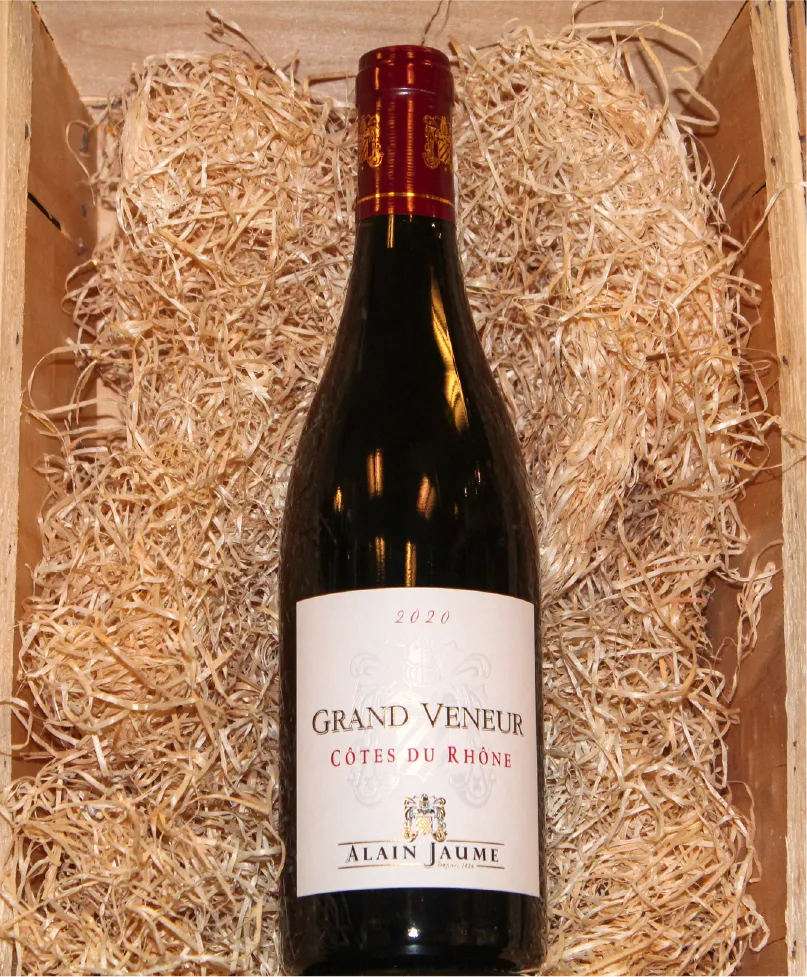
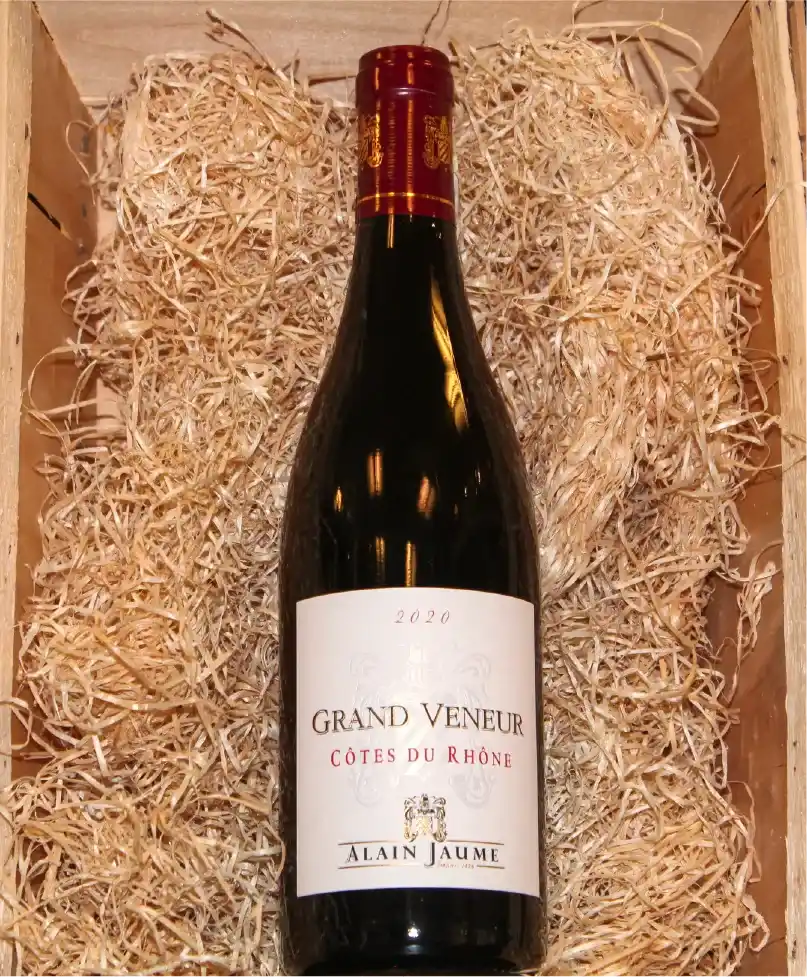
Note - ændre navn på 111 fil (rødvin kategori bg url)
Skal compress billedet og ændre navnet, samt gøre noget for mere læseligt

Changed region(s): [[0.8364, 0.9519, 0.8674, 1.0], [0.5266, 0.8291, 0.5576, 0.8598]]

diff --git a/index.html b/index.html
@@ -17,12 +17,19 @@
     <meta property="og:locale" content="da_dk">
     <meta name="theme-color" content="TBA">
     <title>Document</title>
+<<<<<<< Updated upstream
     <script src="https://kit.fontawesome.com/60e57c91d1.js" crossorigin="anonymous"></script>
     <script src="https://unpkg.com/phosphor-icons"></script>
     <script src="https://maps.googleapis.com/maps/api/js?key=AIzaSyDNS5JsqfFHX_6UR1MR9JJGz6hN20fMhCk&callback=initMap" async defer></script>
     <link rel="preconnect" href="https://fonts.googleapis.com">
+=======
+    <script src="https://kit.fontawesome.com/60e57c91d1.js" crossorigin="anonymous" async defer ></script>
+
+    <script src="https://maps.googleapis.com/maps/api/js?key=AIzaSyDNS5JsqfFHX_6UR1MR9JJGz6hN20fMhCk&callback=initMap" async defer></script>
+
+ 
+>>>>>>> Stashed changes
     <link rel="preconnect" href="https://fonts.gstatic.com" crossorigin>
-    <link href="https://fonts.googleapis.com/css2?family=Oleo+Script:wght@400;700&display=swap" rel="stylesheet">
     <link rel="stylesheet" href="stylesheets/style.css">
 
 </head>
@@ -35,8 +42,8 @@
         <nav class="navbar">
             <!--LOGO-->
             <a href="index.html">
-                <img class="logo-1 logo" src="./img/logo-01.svg" alt="logo">
-                <img class="logo-2 logo" src="./img/logo-02.svg" alt="logo">
+                <img rel="preload" as="image" class="logo-1 logo" src="./img/logo-01.svg" alt="logo">
+                <img rel="preload" as="image" class="logo-2 logo" src="./img/logo-02.svg" alt="logo">
             </a>
             
             <!-- NAV MENU -->
@@ -116,17 +123,17 @@
 
                     <!-- Full-width images with number and caption text -->
                     <div class="mySlides">
-                        <img src="./img/rødvin_finca.webp" alt="Finca rødvin">
+                        <img rel="preload" as="image" src="./img/rødvin_finca.webp" alt="Finca rødvin">
                        
                     </div>
 
                     <div class="mySlides">
-                        <img src="./img/rødvin_grandVeneur.webp" alt="Grand Veneur rødvin">
+                        <img rel="preload" as="image" src="./img/rødvin_grandVeneur.webp" alt="Grand Veneur rødvin">
                      
                     </div>
 
                     <div class="mySlides">
-                        <img src="./img/rødvin_lirac.webp" alt="Lirac Rødvin">
+                        <img rel="preload" as="image" src="./img/rødvin_lirac.webp" alt="Lirac Rødvin">
                     </div>
 
                     <!-- Next and previous buttons -->
@@ -134,9 +141,9 @@
                     <a class="next arrow-black" onclick="plusSlides(1)"><i class="ph-caret-right"></i></a>
                 </div>
                 <div class="desktop-img-container">
-                    <img src="./img/rødvin_finca.webp" alt="Finca Rødvin">
-                    <img src="./img/rødvin_grandVeneur.webp" alt="Grand Veneur Rødvin">
-                    <img src="./img/rødvin_lirac.webp" alt="Lirac Rødvin">
+                    <img rel="preload" as="image" src="./img/rødvin_finca.webp" alt="Finca Rødvin">
+                    <img rel="preload" as="image" src="./img/rødvin_grandVeneur.webp" alt="Grand Veneur Rødvin">
+                    <img rel="preload" as="image" src="./img/rødvin_lirac.webp" alt="Lirac Rødvin">
                 </div>
                 <!-- The dots/circles -->
                 <div>
@@ -158,17 +165,17 @@
 
                     <!-- Full-width images with number and caption text -->
                     <div class="mySlides2">
-                        <img src="./img/rom_bumbu.webp" alt="Bumbu Rom">
+                        <img rel="preload" as="image" src="./img/rom_bumbu.webp" alt="Bumbu Rom">
                        
                     </div>
 
                     <div class="mySlides2">
-                        <img src="./img/gin_sloe.webp" alt="Sloe Gin">
+                        <img rel="preload" as="image" src="./img/gin_sloe.webp" alt="Sloe Gin">
                         
                     </div>
 
                     <div class="mySlides2">
-                        <img src="./img/gin_oldStills.webp" alt="Old Stills">
+                        <img rel="preload" as="image" src="./img/gin_oldStills.webp" alt="Old Stills">
                        
                     </div>
 
@@ -177,9 +184,9 @@
                     <a class="next" onclick="plusSlides2(1)"><i class="ph-caret-right"></i></a>
                 </div>
                 <div class="desktop-img-container">
-                    <img src="./img/rom_bumbu.webp" alt="Bumbu Rom">
-                    <img src="./img/gin_sloe.webp" alt="Sloe Gin">
-                    <img src="./img/gin_oldStills.webp" alt="Old Stills Gin">
+                    <img rel="preload" as="image"  src="./img/rom_bumbu.webp" alt="Bumbu Rom">
+                    <img rel="preload" as="image"  src="./img/gin_sloe.webp" alt="Sloe Gin">
+                    <img rel="preload" as="image"  src="./img/gin_oldStills.webp" alt="Old Stills Gin">
                 </div>
 
                 <!-- The dots/circles -->
@@ -203,15 +210,15 @@
 
                     <!-- Full-width images with number and caption text -->
                     <div class="mySlides3">
-                        <img src="./img/øl_dalva.webp" alt="Dalva Øl">
+                        <img rel="preload" as="image"  src="./img/øl_dalva.webp" alt="Dalva Øl">
                     </div>
 
                     <div class="mySlides3">
-                        <img src="./img/øl_laBio.webp" alt="Labio Øl">
+                        <img rel="preload" as="image"  src="./img/øl_laBio.webp" alt="Labio Øl">
                     </div>
 
                     <div class="mySlides3">
-                        <img src="./img/øl_laMaline.webp" alt="La Maline Øl">
+                        <img rel="preload" as="image"  src="./img/øl_laMaline.webp" alt="La Maline Øl">
                     </div>
 
                     <!-- Next and previous buttons -->
@@ -219,9 +226,9 @@
                     <a class="next arrow-black" onclick="plusSlides3(1)"><i class="ph-caret-right"></i></a>
                 </div>
                 <div class="desktop-img-container">
-                    <img src="./img/øl_dalva.webp" alt="Dalva">
-                    <img src="./img/øl_laBio.webp" alt="Labio">
-                    <img src="./img/øl_laMaline.webp" alt="La Maline">
+                    <img rel="preload" as="image"  src="./img/øl_dalva.webp" alt="Dalva">
+                    <img rel="preload" as="image"  src="./img/øl_laBio.webp" alt="Labio">
+                    <img rel="preload" as="image"  src="./img/øl_laMaline.webp" alt="La Maline">
                 </div>
 
                 <!-- The dots/circles -->

diff --git a/stylesheets/style.css b/stylesheets/style.css
@@ -322,7 +322,6 @@ footer {
 .mySlides2 img,
 .mySlides3 img {
   width: 100%;
-  height: 212px;
   max-width: 318px;
   display: block;
   margin: 0 auto;
@@ -949,7 +948,7 @@ h4 {
 }
 
 .roodvin-kategori {
-  background-image: url(/img/roodvin-kategori.webp);
+  background-image: url(/img/111.webp);
   background-position: center;
 }
 
@@ -1014,7 +1013,7 @@ h4 {
   background-size: cover;
   background-repeat: no-repeat;
   background-position: center;
-  background-image: url(/img/roodvin-kategori.webp);
+  background-image: url(/img/111.webp);
   font-family: 'Raleway', sans-serif;
   padding: 20px;
 }
